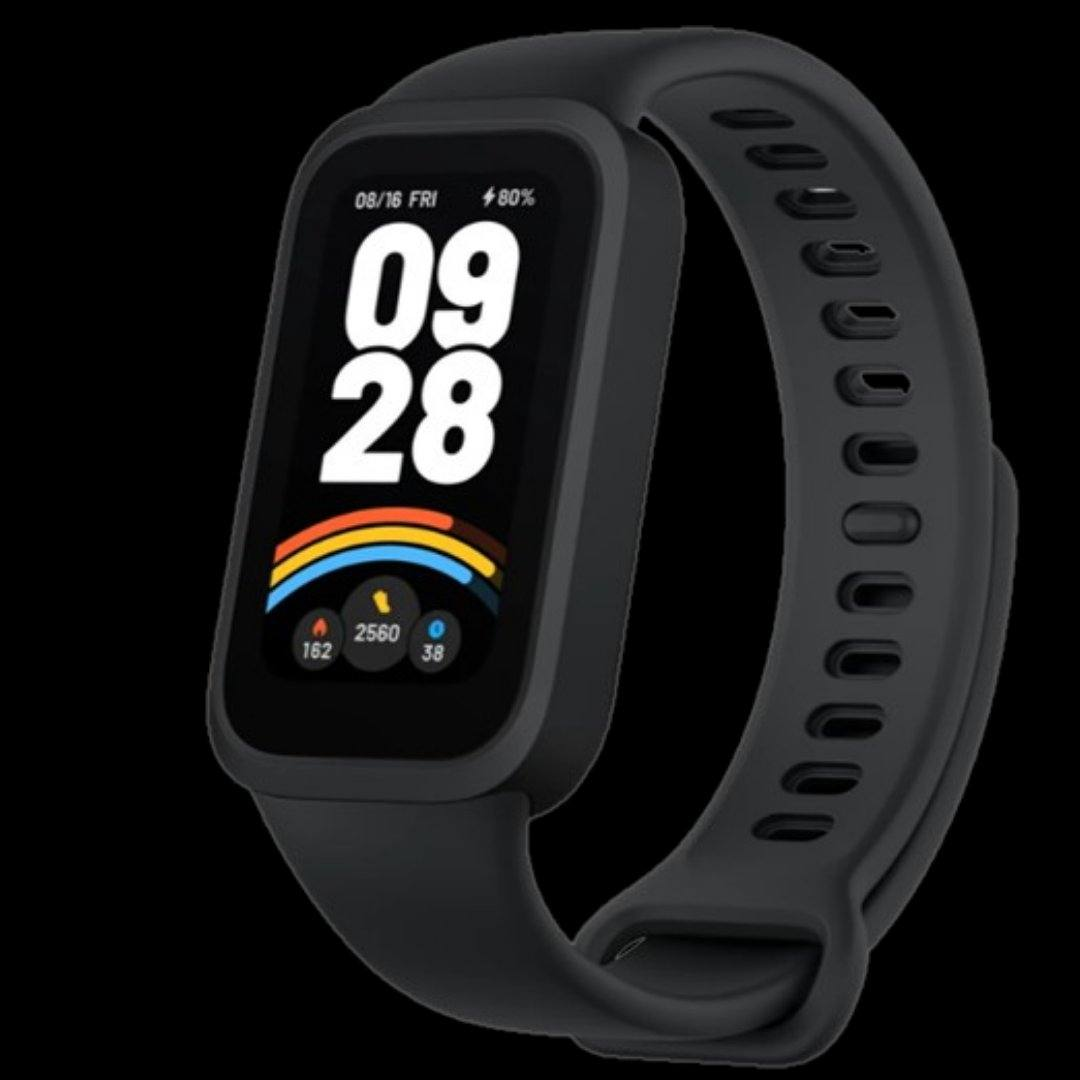
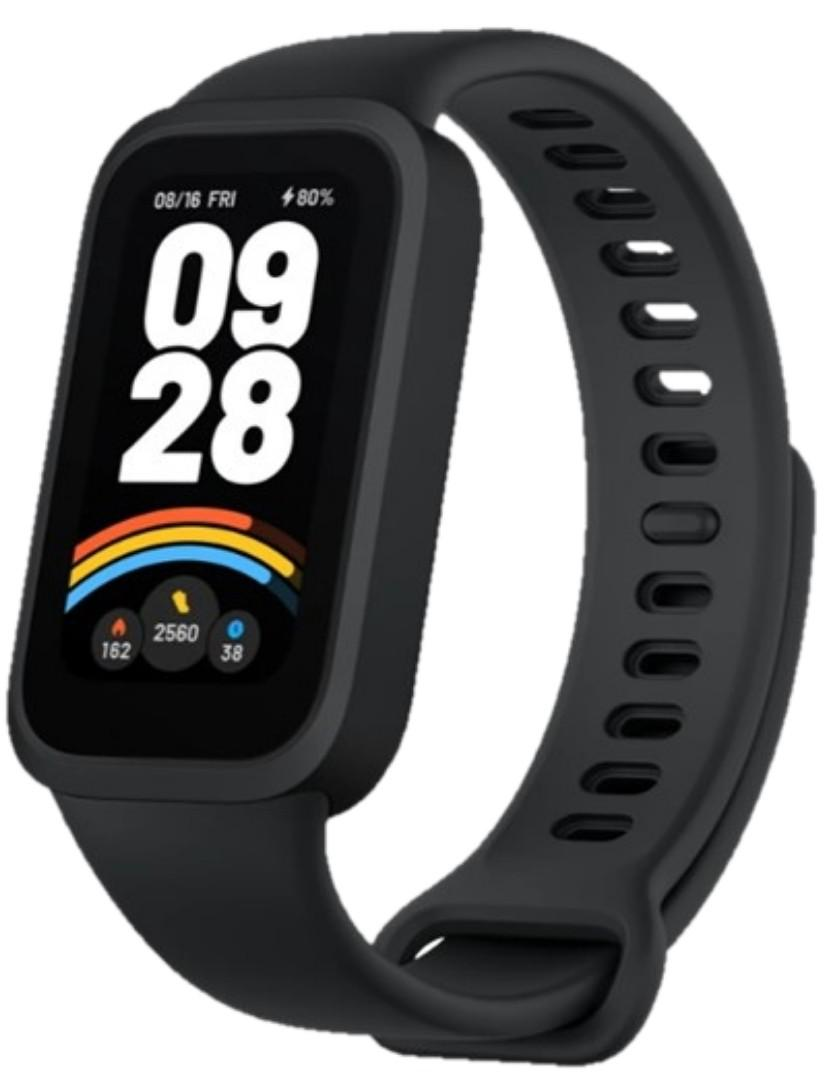
Add files via upload

diff --git a/index.html b/index.html
@@ -1007,6 +1007,31 @@ body {
   max-width: 440px;
 }
 
+/* ===== PROGRAM SECTION ===== */
+.program-section {
+  background: #1a0a2e;
+  padding: 32px 0 24px;
+  direction: rtl;
+}
+.program-title {
+  font-size: clamp(22px, 5.5vw, 32px);
+  font-weight: 900;
+  color: white;
+  text-align: center;
+  padding: 0 16px;
+  margin-bottom: 10px;
+  line-height: 1.35;
+}
+.program-subtitle {
+  font-size: clamp(17px, 4vw, 21px);
+  color: rgba(255,255,255,0.85);
+  text-align: center;
+  padding: 0 16px;
+  margin-bottom: 16px;
+  line-height: 1.6;
+}
+.program-subtitle strong { color: white; text-decoration: underline; }
+
 /* ===== BONUSES SECTION ===== */
 .bonuses-section {
   display: none;
@@ -1051,15 +1076,16 @@ body {
 .bonuses-card {
   background: white;
   border-radius: 20px;
-  padding: 28px 20px;
+  padding: 24px 20px;
   text-align: center;
   direction: rtl;
-  min-height: 200px;
+  height: clamp(220px, 55vw, 320px);
   display: flex;
   flex-direction: column;
   justify-content: center;
   gap: 12px;
   box-shadow: 0 6px 24px rgba(0,0,0,0.15);
+  overflow: hidden;
 }
 .bonuses-card-title {
   font-size: clamp(22px, 5vw, 28px);
@@ -1478,25 +1504,39 @@ body {
   color: white;
 }
 .story-closing {
-  padding: 0 24px 8px;
-  text-align: center;
+  padding: 0 16px 8px;
   direction: rtl;
 }
 .story-closing-title {
-  font-size: clamp(26px, 6vw, 38px);
+  font-size: clamp(20px, 4.5vw, 28px);
   font-weight: 900;
   color: white;
-  line-height: 1.4;
+  line-height: 1.5;
   margin-bottom: 12px;
 }
 .story-closing-prime {
-  font-size: clamp(22px, 5vw, 32px);
+  font-size: clamp(24px, 5.5vw, 36px);
   font-weight: 900;
   color: #E040A0;
   line-height: 1.4;
 }
 .story-img {
   display: none;
+}
+.story-para {
+  font-size: clamp(17px, 4vw, 21px);
+  color: rgba(255,255,255,0.88);
+  line-height: 1.85;
+  direction: rtl;
+  text-align: right;
+  padding: 0 20px 24px;
+}
+.story-full-img {
+  width: 100%;
+  display: block;
+  object-fit: cover;
+  max-height: 75vw;
+  margin-bottom: 24px;
 }
 .story-highlight {
   display: none;
@@ -1937,12 +1977,12 @@ body {
     <button class="nav-btn" onclick="scrollBonuses(-1)">←</button>
   </div>
   <div id="bonuses-scroll" style="display:flex;overflow-x:scroll;scroll-snap-type:x mandatory;-webkit-overflow-scrolling:touch;scrollbar-width:none;padding:0 0 16px;gap:0;">
-    <div style="min-width:88%;scroll-snap-align:start;flex-shrink:0;padding:0 4px 0 12px;">
+    <div style="min-width:82%;scroll-snap-align:start;flex-shrink:0;padding:0 4px 0 12px;">
       <div class="bonuses-card" style="justify-content:center;gap:8px;"><div class="bonuses-card-title">הנחה מיוחדת</div><div class="bonuses-card-title" style="font-size:clamp(52px,12vw,72px);color:#E0197D;line-height:1;">35%</div><div class="bonuses-card-body" style="font-size:clamp(16px,3.5vw,18px);">לזמן מוגבל!</div></div>
     </div>
     <div style="min-width:92%;scroll-snap-align:center;flex-shrink:0;padding:0 8px;">
       <div class="bonuses-card" style="flex-direction:row;align-items:center;padding:20px;gap:16px;min-height:200px;">
-        <img src="site_images/bracelet.png" alt="צמיד צעדים" style="width:38%;max-width:160px;border-radius:12px;flex-shrink:0;object-fit:cover;">
+        <img src="site_images/bracelet.jpg" alt="צמיד צעדים" style="width:38%;max-width:160px;border-radius:12px;flex-shrink:0;object-fit:cover;">
         <div style="flex:1;text-align:right;direction:rtl;">
           <div class="bonuses-card-title">צמיד צעדים במתנה 🎁</div>
           <div class="bonuses-card-body" style="margin-top:10px;">הצמיד ששומר אותך מודעת ומחויבת לתהליך. מעקב אחרי מדדי בריאות וכושר לאורך כל היום. תמיכה מלאה בעברית. נשלח אלייך החל מהשבוע 3 לתוכנית לכל כתובת בישראל.</div>
@@ -1982,7 +2022,7 @@ body {
   <button class="btn-join" onclick="showWhenSection()">
     אני רוצה להצטרף! 🎉
   </button>
-  <button class="offer-support-btn" onclick="showFaqSection()" id="faq-toggle-btn" style="margin-top:16px;display:block;width:100%;max-width:480px;margin-left:auto;margin-right:auto;text-align:center;font-size:clamp(17px,4vw,20px);">❓ יש לך שאלה? לחצי כאן</button>
+  <button class="offer-support-btn" onclick="showFaqSection()" id="faq-toggle-btn" style="margin-top:16px;display:block;width:100%;max-width:480px;margin-left:auto;margin-right:auto;text-align:center;font-size:clamp(17px,4vw,22px);">❓ יש לך שאלה? לחצי כאן</button>
 <!-- FAQ SECTION -->
 <div class="faq-section" id="faq-section" style="display:none;" >
   <h2 class="faq-section-title">שאלות ותשובות</h2>
@@ -2039,7 +2079,7 @@ body {
   <div class="offer-support">
     <div>יש לך שאלה נוספת? צרי איתנו קשר:</div>
     <div class="offer-support-links">
-      <a class="offer-support-btn" href="https://wa.me/9720547304177">📱 לחצי לשליחת וואטסאפ ל-054-7304177</a>
+      <a class="offer-support-btn" href="https://wa.me/9720547304177">📱 לחצי לשליחת וואטסאפ<br>054-7304177</a>
       <a class="offer-support-btn" href="mailto:support@myprime.co.il">📧 לחצי לשליחת מייל ל support@myprime.co.il</a>
     </div>
   </div>
@@ -2064,6 +2104,32 @@ body {
 </div>
 
 
+<!-- PROGRAM DETAILS SECTION -->
+<div class="program-section" id="program-section" style="display:none;">
+  <h2 class="program-title">מה את מקבלת בתוכנית הליווי<br>"מיי פריים 360"?</h2>
+  <p class="program-subtitle">תהליך ליווי מובנה לאורך <strong>10 שבועות</strong> הכולל:</p>
+  <div style="text-align:center;color:#9B70C0;margin-bottom:12px;direction:rtl;display:flex;align-items:center;justify-content:center;gap:16px;">
+    <button class="nav-btn" onclick="scrollProgram(1)">→</button>
+    <span style="font-size:clamp(17px,4vw,20px);font-weight:800;">החליקי לראות עוד</span>
+    <button class="nav-btn" onclick="scrollProgram(-1)">←</button>
+  </div>
+  <div id="program-scroll" style="display:flex;overflow-x:scroll;scroll-snap-type:x mandatory;-webkit-overflow-scrolling:touch;scrollbar-width:none;height:min(85vw,480px);">
+    <!-- סרטון - סלייד 1 -->
+    <div style="min-width:100%;scroll-snap-align:start;flex-shrink:0;position:relative;height:100%;overflow:hidden;">
+      <iframe src="https://player.vimeo.com/video/1169512075?badge=0&autoplay=0&loop=0&autopause=1&player_id=0&app_id=58479" style="width:100%;height:100%;border:none;display:block;" allow="autoplay;fullscreen;picture-in-picture" allowfullscreen title="תוכנית מיי פריים 360"></iframe>
+    </div>
+    <!-- 6 כרטיסי תוכנית -->
+    <div style="min-width:100%;scroll-snap-align:start;flex-shrink:0;aspect-ratio:1/1;overflow:hidden;background:#1a0a2e;"><img src="site_images/program3.jpg" style="width:100%;height:100%;object-fit:contain;display:block;"></div>
+    <div style="min-width:100%;scroll-snap-align:start;flex-shrink:0;aspect-ratio:1/1;overflow:hidden;background:#1a0a2e;"><img src="site_images/program2.jpg" style="width:100%;height:100%;object-fit:contain;display:block;"></div>
+    <div style="min-width:100%;scroll-snap-align:start;flex-shrink:0;aspect-ratio:1/1;overflow:hidden;background:#1a0a2e;"><img src="site_images/program1.jpg" style="width:100%;height:100%;object-fit:contain;display:block;"></div>
+    <div style="min-width:100%;scroll-snap-align:start;flex-shrink:0;aspect-ratio:1/1;overflow:hidden;background:#1a0a2e;"><img src="site_images/program6.jpg" style="width:100%;height:100%;object-fit:contain;display:block;"></div>
+    <div style="min-width:100%;scroll-snap-align:start;flex-shrink:0;aspect-ratio:1/1;overflow:hidden;background:#1a0a2e;"><img src="site_images/program5.jpg" style="width:100%;height:100%;object-fit:contain;display:block;"></div>
+    <div style="min-width:100%;scroll-snap-align:start;flex-shrink:0;aspect-ratio:1/1;overflow:hidden;background:#1a0a2e;"><img src="site_images/program4.jpg" style="width:100%;height:100%;object-fit:contain;display:block;"></div>
+  </div>
+  <style>#program-scroll::-webkit-scrollbar{display:none;}</style>
+</div>
+
+
 
 <!-- RAVPAGE FORM -->
 <div id="ravpage-form" class="ravpage-wrap" style="display:none">
@@ -2084,56 +2150,49 @@ body {
 <!-- STORY SECTION -->
 <div class="story-section" id="story-section">
   <h2 class="story-title">הסיפור האישי של ענת</h2>
-  <div style="display:flex;align-items:center;gap:24px;padding:0 16px 32px;direction:rtl;">
-    <div style="flex:1;text-align:right;font-size:clamp(17px,4vw,21px);color:rgba(255,255,255,0.88);line-height:1.85;">
-      היי! אני ענת, בת 55, מייסדת "מיי פריים" - תוכניות ליווי לנשים בגיל המעבר,
-      מרצה על אורח חיים בריא ומאמנת להתפתחות אישית.
-      אני עוסקת בתחום כבר 20 שנה ויותר וזה סיפור ההתמודדות שלי עם גיל המעבר ואיך נולד הקורס "מיי פריים 360" במיוחד עבורך:
-    </div>
-    <img src="site_images/anat_portrait.jpg" alt="ענת הראל" style="width:38%;max-width:200px;flex-shrink:0;border-radius:16px;object-fit:cover;">
+
+  <!-- פסקה 1 + תמונה -->
+  <div class="story-para">
+    היי! אני ענת, בת 55, מייסדת "מיי פריים" - תוכניות ליווי לנשים בגיל המעבר,
+    מרצה על אורח חיים בריא ומאמנת להתפתחות אישית.
+    אני עוסקת בתחום כבר 20 שנה ויותר וזה סיפור ההתמודדות שלי עם גיל המעבר ואיך נולד הקורס "מיי פריים 360" במיוחד עבורך:
+  </div>
+  <div class="story-para">
+    במהלך הקריירה שלי הגעתי לאלפי נשים בכל דרך אפשרית – מקבוצות וסדנאות כושר, דרך תוכניות אימון אונליין וכלה בהגשת תוכניות טלוויזיה רבות, כגון: "שעת אושר", "לחיות טוב", "גוף ונפש עם ענת הראל" ועוד. בעבר הייתי פרזנטורית של מותג דגני בוקר ושל "נייקי ישראל" וכיום אני בנבחרת המשפיעניות של "מכבי שירותי בריאות", "הודי'ס" ועוד.
+    <br><br>
+    <strong>מאז ומעולם הרגשתי שיש לי שליחות חשובה,</strong> שאליה אני מתמסרת כל כולי – לגרום לכמה שיותר נשים להבין את ההשפעה של פעילות גופנית ותזונה מאוזנת על החיים שלהן.
   </div>
 
-  <!-- שורה 1: טקסט שמאל, תמונה ימין -->
-  <div class="story-row">
-    <div class="story-row-text">
-      במהלך הקריירה שלי הגעתי לאלפי נשים בכל דרך אפשרית – מקבוצות וסדנאות כושר, דרך תוכניות אימון אונליין וכלה בהגשת תוכניות טלוויזיה רבות, כגון: "שעת אושר", "לחיות טוב", "גוף ונפש עם ענת הראל" ועוד. בעבר הייתי פרזנטורית של מותג דגני בוקר ושל "נייקי ישראל" וכיום אני בנבחרת המשפיעניות של "מכבי שירותי בריאות", "הודי'ס" ועוד.
-      <br><br>
-      <strong>מאז ומעולם הרגשתי שיש לי שליחות חשובה,</strong> שאליה אני מתמסרת כל כולי – לגרום לכמה שיותר נשים להבין את ההשפעה של פעילות גופנית ותזונה מאוזנת על החיים שלהן: על הבריאות, על מצב הרוח, על המראה ועל התפקוד.
-    </div>
-    <img class="story-row-img" src="site_images/story1.jpg" onerror="this.style.display='none'" alt="ענת הראל">
+  <!-- תמונה 1 - מלאת רוחב -->
+  <img src="site_images/anat_portrait.jpg" alt="ענת הראל" class="story-full-img">
+
+  <!-- פסקה 2 -->
+  <div class="story-para">
+    באמצע שנות ה-40 לחיי, ממש כשהרגשתי בשיא – משהו השתבש. שמתי לב למצבי רוח שמשתנים בקיצוניות, יכולת הריכוז שלי ירדה, השינה שלי נהייתה הרבה פחות רציפה ואיכותית, והגוף כבר לא הגיב באותו אופן לאימונים ולתזונה שהיו חלק בלתי נפרד מהשגרה שלי.
+    <br><br>
+    לקח לי כמה חודשים של ריצות מרופא לרופא, כדי להבין שאני בסך הכול עוברת תהליך טבעי שכל אישה עוברת: שינוי הורמונלי שמתרחש בשלבים המוקדמים של גיל המעבר. הבנתי שאני לא לבד, שישנן נשים רבות שחוות יחד איתי את אותן התופעות בדיוק.
+  </div>
+  <div class="story-highlight-dark" style="margin:0 20px 24px;">
+    <strong>התחלתי לברר וגיליתי ש:</strong><br>
+    1. רוב הנשים לא מבינות שמה שעובר עליהן קשור להורמונים.<br>
+    2. רוב הנשים מחפשות את הפתרון במקום הלא נכון.<br>
+    3. רובנו מתביישות לדבר על זה — ואם אנחנו לא מדברות, איך נוכל לטפל בבעיה?
   </div>
 
-  <!-- שורה 2: תמונה שמאל, טקסט ימין -->
-  <div class="story-row reverse">
-    <div class="story-row-text">
-      באמצע שנות ה-40 לחיי, ממש כשהרגשתי בשיא – משהו השתבש. שמתי לב למצבי רוח שמשתנים בקיצוניות, יכולת הריכוז שלי ירדה, השינה שלי נהייתה הרבה פחות רציפה ואיכותית, והגוף כבר לא הגיב באותו אופן לאימונים ולתזונה שהיו חלק בלתי נפרד מהשגרה שלי.
-      <br><br>
-      לקח לי כמה חודשים של ריצות מרופא לרופא, כדי להבין שאני בסך הכול עוברת תהליך טבעי שכל אישה עוברת: שינוי הורמונלי שמתרחש בשלבים המוקדמים של גיל המעבר. הבנתי שאני לא לבד, שישנן נשים רבות שחוות יחד איתי את אותן התופעות בדיוק.
-      <br><br>
-      <div class="story-highlight-dark">
-        <strong>התחלתי לברר וגיליתי ש:</strong><br>
-        1. רוב הנשים לא מבינות שמה שעובר עליהן קשור להורמונים.<br>
-        2. רוב הנשים מחפשות את הפתרון במקום הלא נכון.<br>
-        3. רובנו מתביישות לדבר על זה — ואם אנחנו לא מדברות, איך נוכל לטפל בבעיה?
-      </div>
-    </div>
-    <img class="story-row-img" src="site_images/story2.jpg" onerror="this.style.display='none'" alt="ענת הראל">
-  </div>
+  <!-- תמונה 2 - מלאת רוחב -->
+  <img src="site_images/anat_sport.jpg" alt="ענת הראל" class="story-full-img">
 
-  <!-- שורה 3: טקסט שמאל, תמונה ימין -->
-  <div class="story-row">
-    <div class="story-row-text">
-      החלטתי ללמוד איך אפשר לעבור את זה אחרת, תוך שילוב כל מה שאני עוסקת בו כבר עשרים שנה. קראתי מחקרים, התייעצתי עם רופאות ותזונאיות מובילות ויצרתי שיטה שמטרתה לאפשר לנשים החל מטרום גיל המעבר לחיות חיים טובים יותר בכל התחומים: במראה החיצוני, בבריאות, ברמות האנרגיה, ובהתמודדות עם השינויים.
-    </div>
-    <img class="story-row-img" src="site_images/story3.jpg" onerror="this.style.display='none'" alt="ענת הראל">
+  <!-- פסקה 3 -->
+  <div class="story-para">
+    החלטתי ללמוד איך אפשר לעבור את זה אחרת, תוך שילוב כל מה שאני עוסקת בו כבר עשרים שנה. קראתי מחקרים, התייעצתי עם רופאות ותזונאיות מובילות ויצרתי שיטה שמטרתה לאפשר לנשים החל מטרום גיל המעבר לחיות חיים טובים יותר בכל התחומים: במראה החיצוני, בבריאות, ברמות האנרגיה, ובהתמודדות עם השינויים.
   </div>
 
   <!-- סיום -->
   <div class="story-closing">
     <div class="story-closing-title">
-      כיום, אני רואה שליחות אדירה בהפצת הידע שרכשתי<br>
-      והשיטות שלמדתי והתנסיתי בהן<br>
-      בתחום ההתמודדות עם שלבי גיל המעבר,<br>
+      כיום, אני רואה שליחות אדירה בהפצת הידע שרכשתי
+      והשיטות שלמדתי והתנסיתי בהן
+      בתחום ההתמודדות עם שלבי גיל המעבר,
       כי מגיע לנו להנות מהתקופה הזו –
     </div>
     <div class="story-closing-prime">תקופת הפריים שלנו.</div>
@@ -2621,8 +2680,10 @@ function showResult() {
   function showRavpage() {
     var lm = document.getElementById('lead-magnet-section');
     var bs = document.getElementById('bonuses-section');
+    var ps = document.getElementById('program-section');
     if (lm) lm.style.display = 'block';
     if (bs) bs.style.display = 'block';
+    if (ps) ps.style.display = 'block';
     setTimeout(function() {
       var target = lm || bs;
       if (target) target.scrollIntoView({ behavior: 'smooth', block: 'start' });
@@ -2697,6 +2758,12 @@ function showResult() {
 
   function scrollWhy(dir) {
     var el = document.getElementById('why-scroll');
+    if (!el) return;
+    el.scrollBy({ left: dir * el.offsetWidth, behavior: 'smooth' });
+  }
+
+  function scrollProgram(dir) {
+    var el = document.getElementById('program-scroll');
     if (!el) return;
     el.scrollBy({ left: dir * el.offsetWidth, behavior: 'smooth' });
   }
